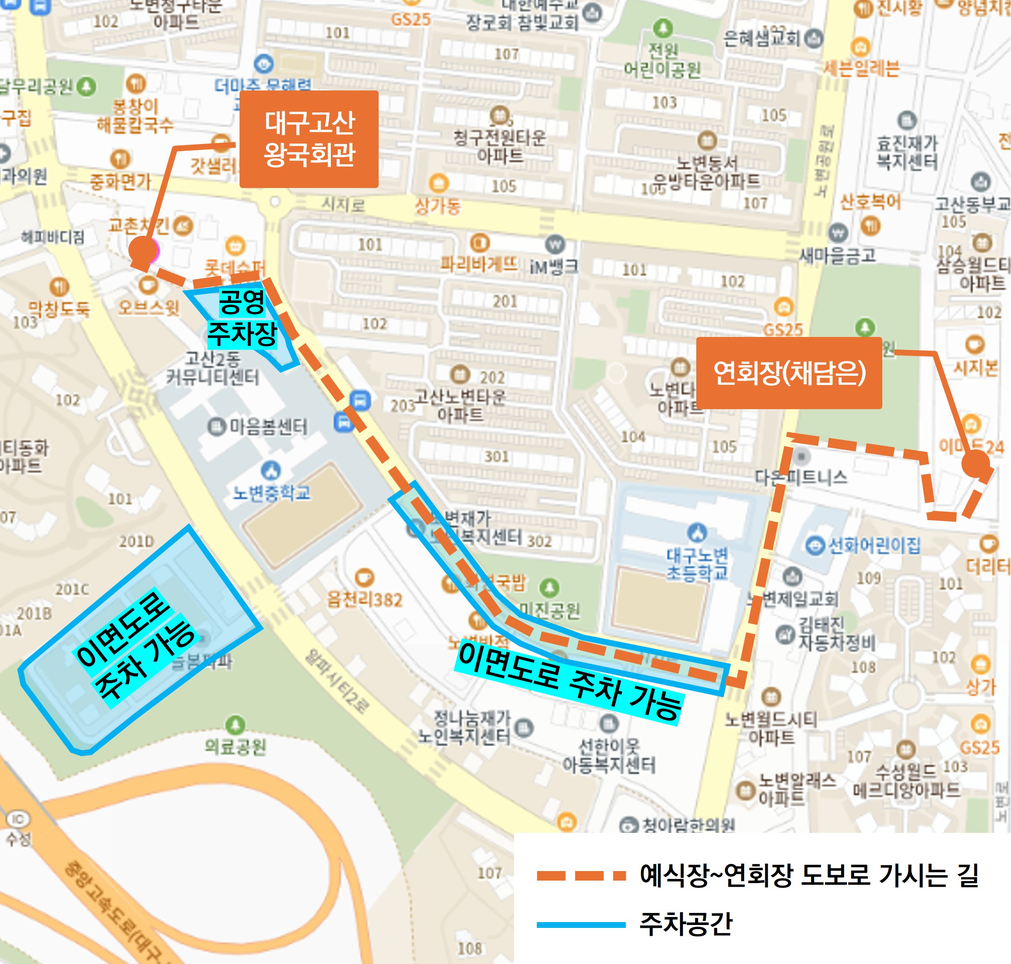
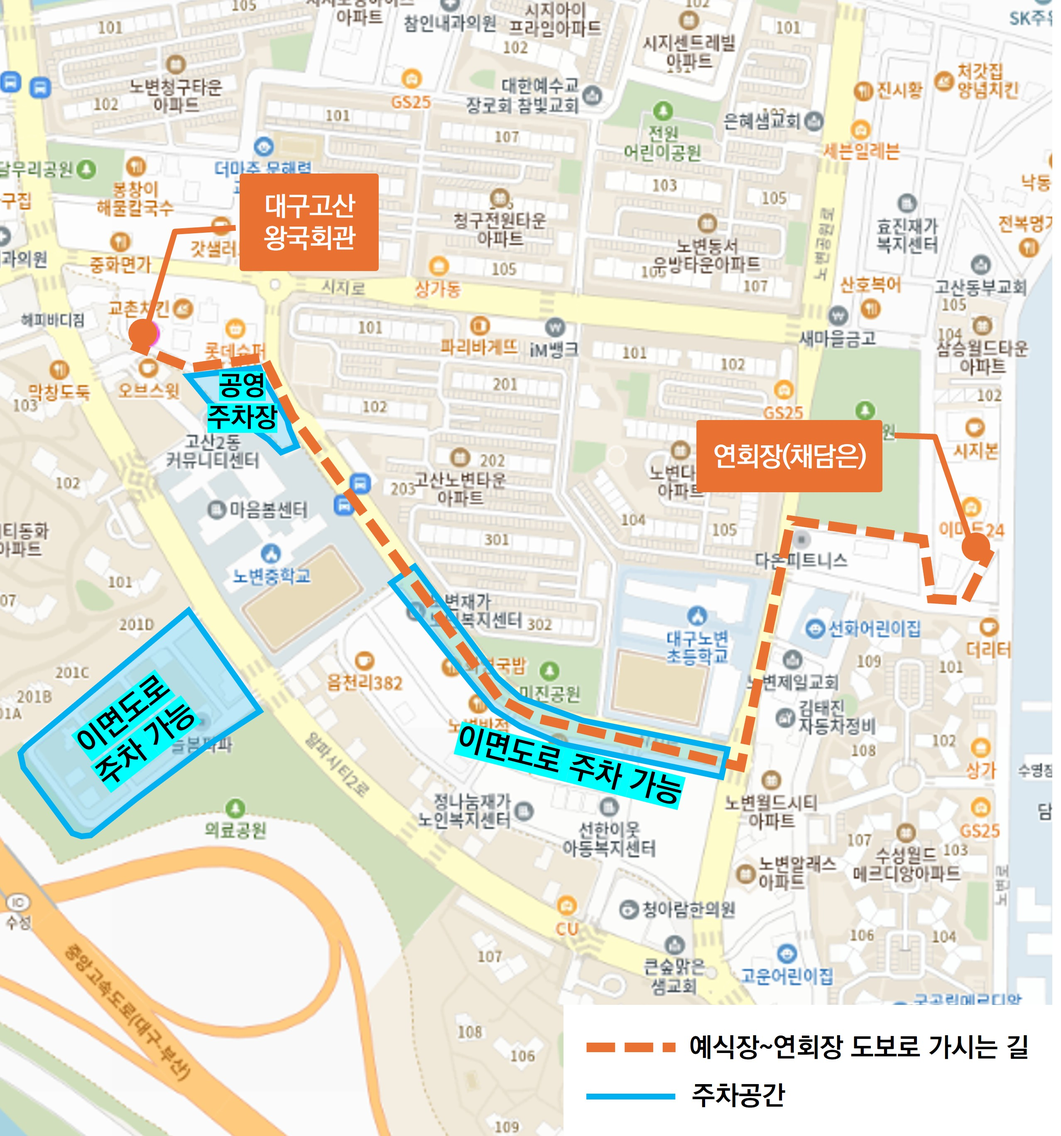
RSVP 구글시트 연동 및 지도, 방명록 업데이트

diff --git a/wedding-invitation/my-wedding/index.html b/wedding-invitation/my-wedding/index.html
@@ -363,7 +363,7 @@ section{padding:86px 22px;position:relative;text-align:center}
                 <div class="info-label">PARKING INFORMATION</div>
                 <ul class="parking-list">
                     <li><b>주차 위치</b> · 고산2동 커뮤니티센터 인근, 노변중학교/늘봄파파 인근, 아진공원 인근 등 약도를 참조해 주세요.</li>
-                    <li><b>TIP</b> · 예식장과 식당의 주차 위치가 다르다면 각각 구분해서 표시하는 것을 추천합니다.</li>
+                    <li><b>TIP</b> · 예식장 주차 공간이 협소한 관계로 가급적 대중교통 이용 또는 카풀을 부탁드립니다. 하객 여러분의 너른 양해와 협조 부탁드립니다.</li>
                 </ul>
             </div>
         </div>

diff --git a/wedding-invitation/my-wedding_B/index.html b/wedding-invitation/my-wedding_B/index.html
@@ -363,7 +363,7 @@ section{padding:86px 22px;position:relative;text-align:center}
                 <div class="info-label">PARKING INFORMATION</div>
                 <ul class="parking-list">
                     <li><b>주차 위치</b> · 고산2동 커뮤니티센터 인근, 노변중학교/늘봄파파 인근, 아진공원 인근 등 약도를 참조해 주세요.</li>
-                    <li><b>TIP</b> · 예식장과 식당의 주차 위치가 다르다면 각각 구분해서 표시하는 것을 추천합니다.</li>
+                    <li><b>TIP</b> · 예식장 주차 공간이 협소한 관계로 가급적 대중교통 이용 또는 카풀을 부탁드립니다. 하객 여러분의 너른 양해와 협조 부탁드립니다.</li>
                 </ul>
             </div>
         </div>
